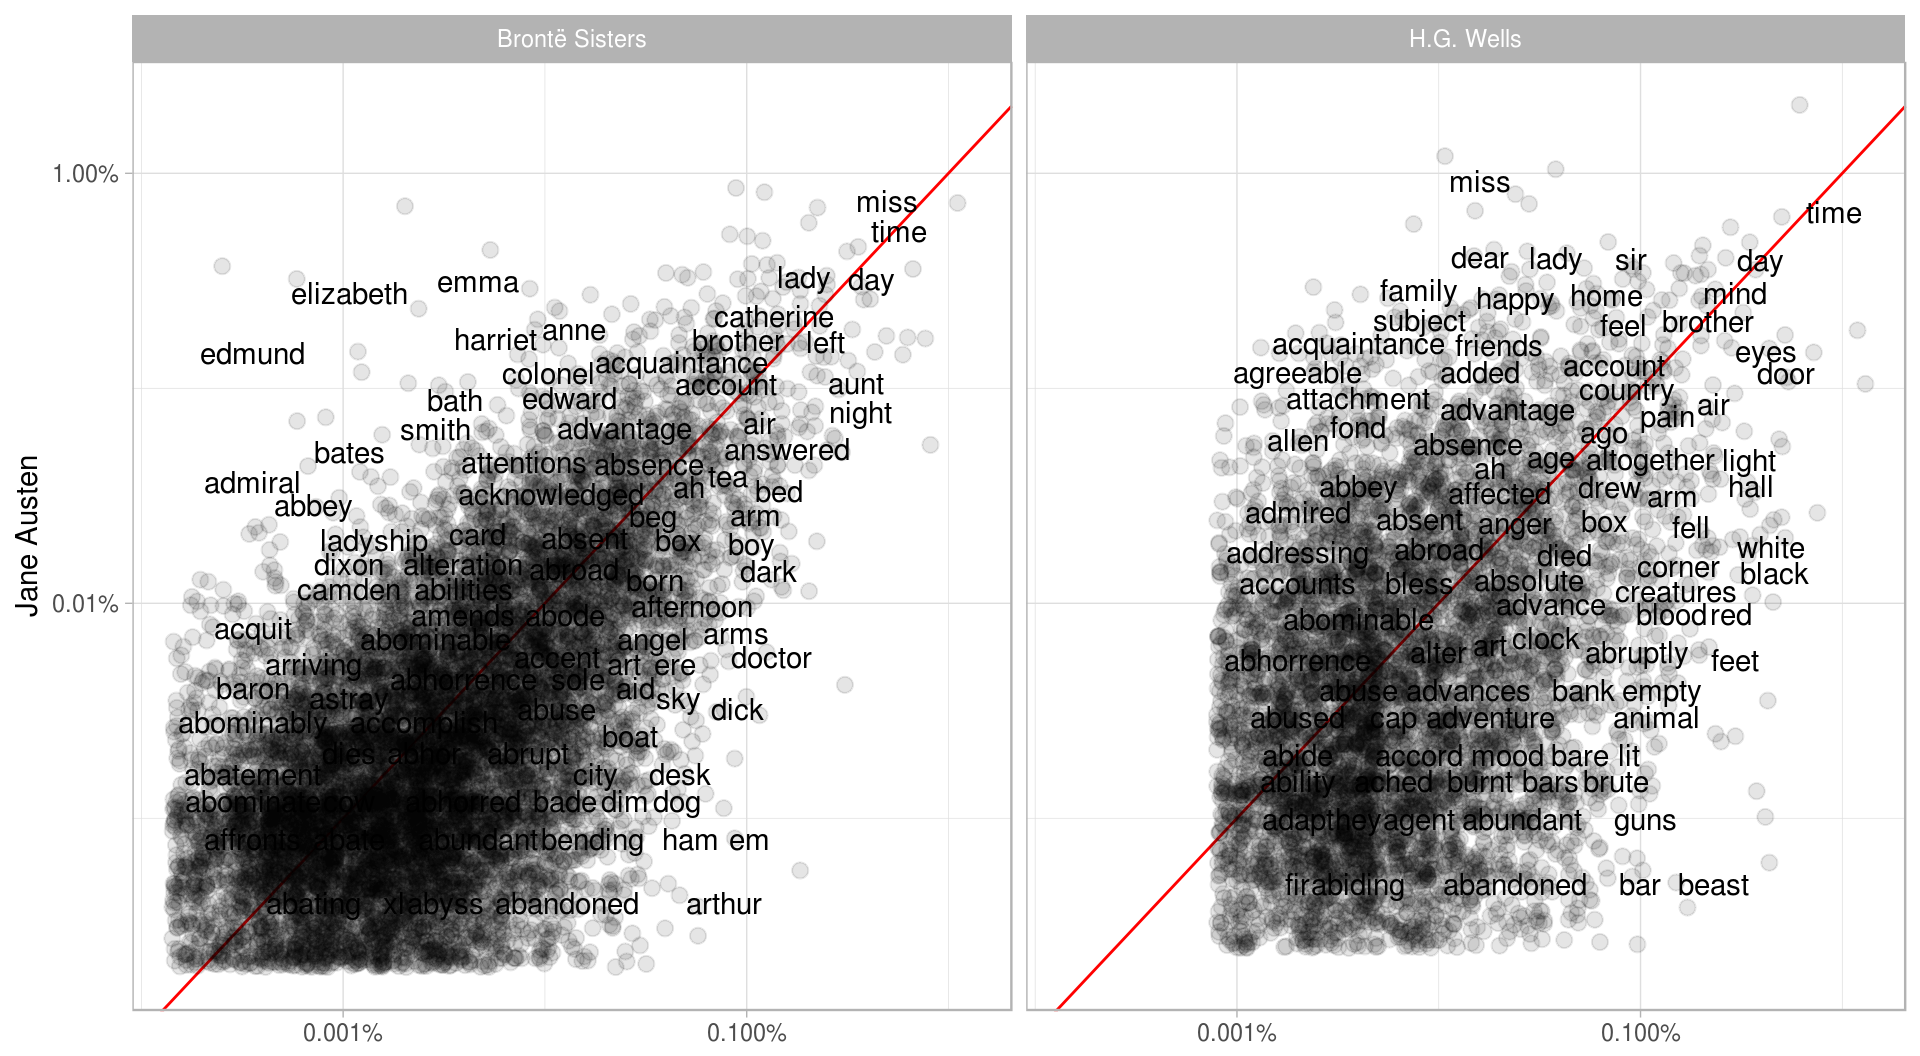
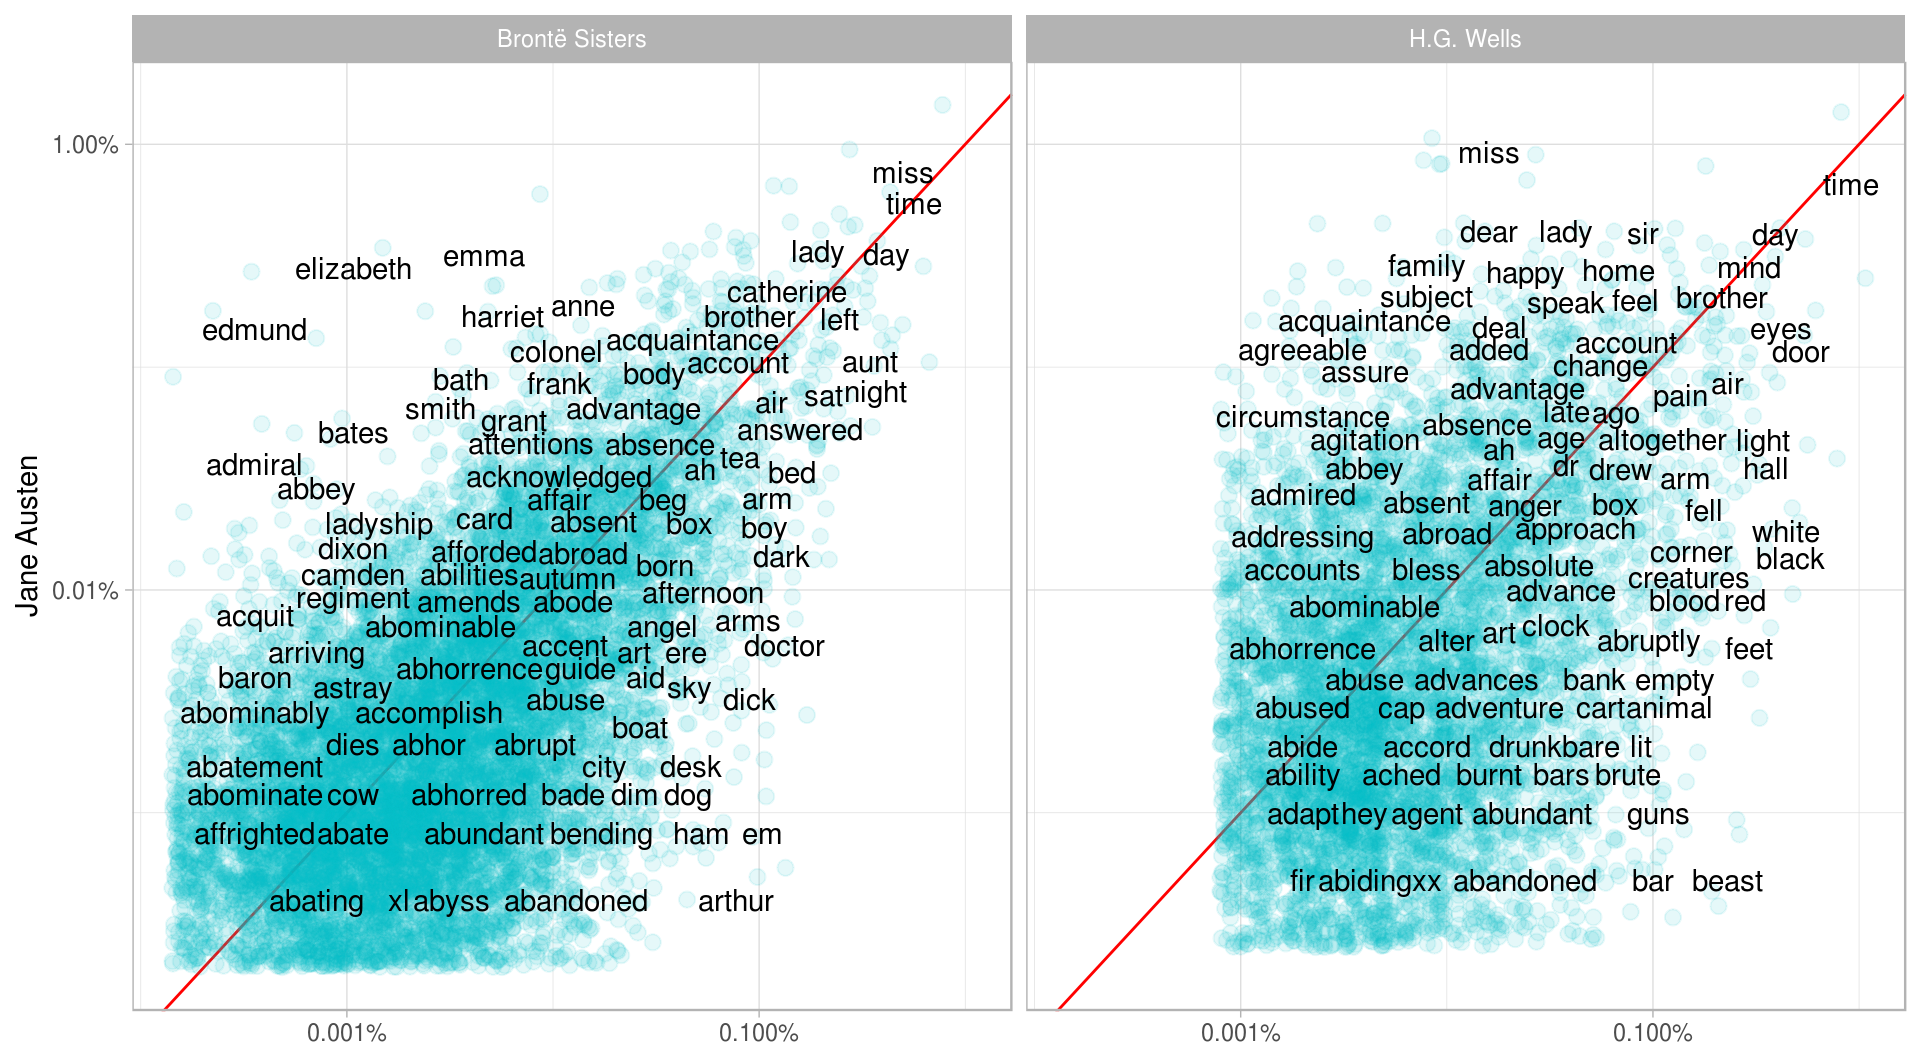
Updating book (70)

diff --git a/tidytext.html b/tidytext.html
@@ -415,7 +415,8 @@ frequency &lt;-<span class="st"> </span>tidy_both %&gt;%
 <div class="sourceCode"><pre class="sourceCode r"><code class="sourceCode r"><span class="kw">library</span>(scales)
 <span class="kw">ggplot</span>(frequency, <span class="kw">aes</span>(<span class="dt">x =</span> other, <span class="dt">y =</span> Austen)) +
 <span class="st">  </span><span class="kw">geom_abline</span>(<span class="dt">color =</span> <span class="st">&quot;red&quot;</span>) +
-<span class="st">  </span><span class="kw">geom_jitter</span>(<span class="dt">alpha =</span> <span class="fl">0.1</span>, <span class="dt">size =</span> <span class="fl">2.5</span>, <span class="dt">width =</span> <span class="fl">0.4</span>, <span class="dt">height =</span> <span class="fl">0.4</span>) +
+<span class="st">  </span><span class="kw">geom_jitter</span>(<span class="dt">alpha =</span> <span class="fl">0.1</span>, <span class="dt">size =</span> <span class="fl">2.5</span>, <span class="dt">color =</span> <span class="st">&quot;#00BFC4&quot;</span>,
+              <span class="dt">width =</span> <span class="fl">0.4</span>, <span class="dt">height =</span> <span class="fl">0.4</span>) +
 <span class="st">  </span><span class="kw">geom_text</span>(<span class="kw">aes</span>(<span class="dt">label =</span> word), <span class="dt">check_overlap =</span> <span class="ot">TRUE</span>, <span class="dt">vjust =</span> <span class="fl">1.5</span>) +
 <span class="st">  </span><span class="kw">scale_x_log10</span>(<span class="dt">labels =</span> <span class="kw">percent_format</span>()) +
 <span class="st">  </span><span class="kw">scale_y_log10</span>(<span class="dt">labels =</span> <span class="kw">percent_format</span>()) +

diff --git a/02-tidy-text.md b/02-tidy-text.md
@@ -323,7 +323,8 @@ We use `str_extract` here because the UTF-8 encoded texts from Project Gutenberg
 library(scales)
 ggplot(frequency, aes(x = other, y = Austen)) +
   geom_abline(color = "red") +
-  geom_jitter(alpha = 0.1, size = 2.5, width = 0.4, height = 0.4) +
+  geom_jitter(alpha = 0.1, size = 2.5, color = "#00BFC4",
+              width = 0.4, height = 0.4) +
   geom_text(aes(label = word), check_overlap = TRUE, vjust = 1.5) +
   scale_x_log10(labels = percent_format()) +
   scale_y_log10(labels = percent_format()) +
